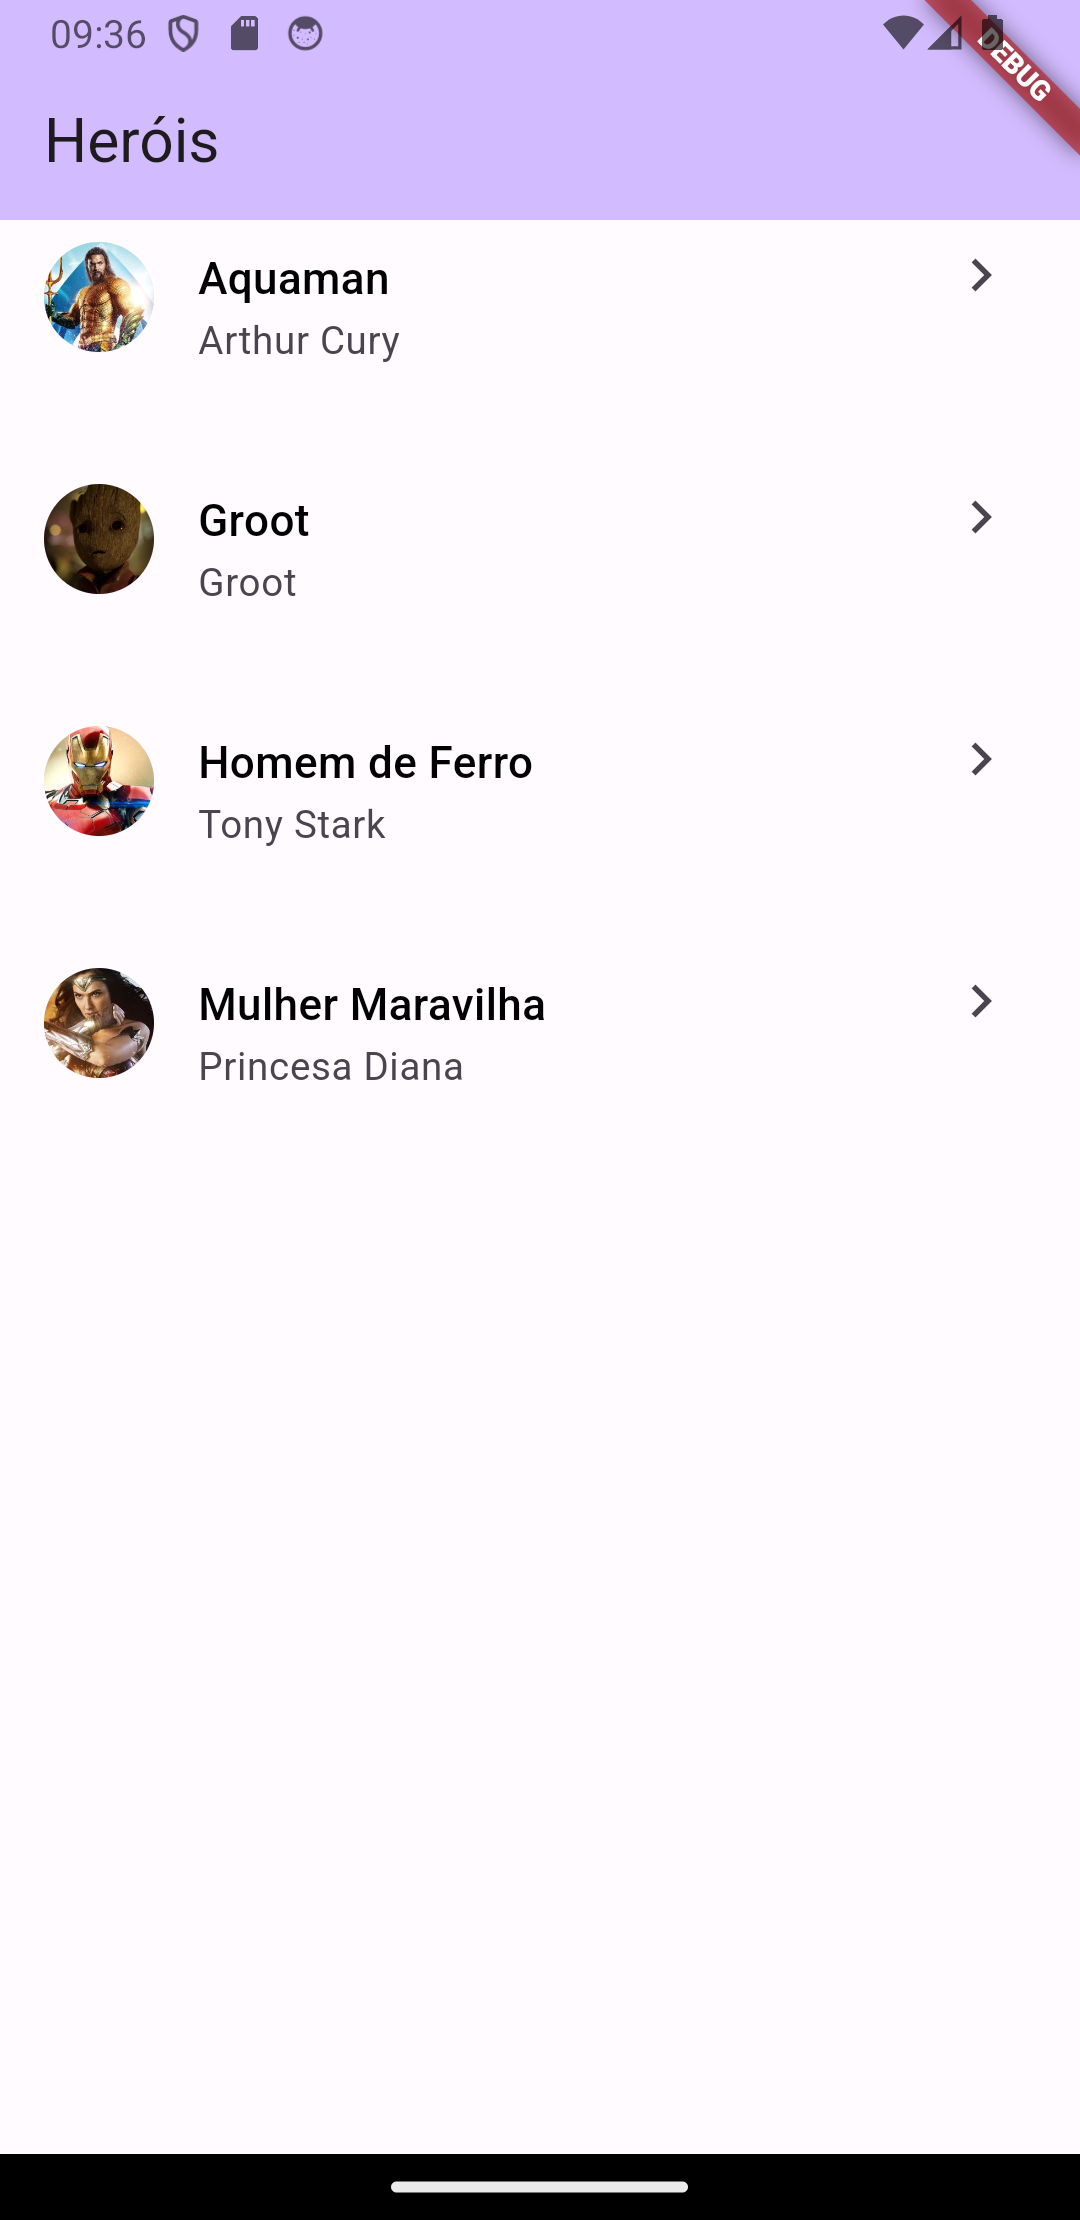
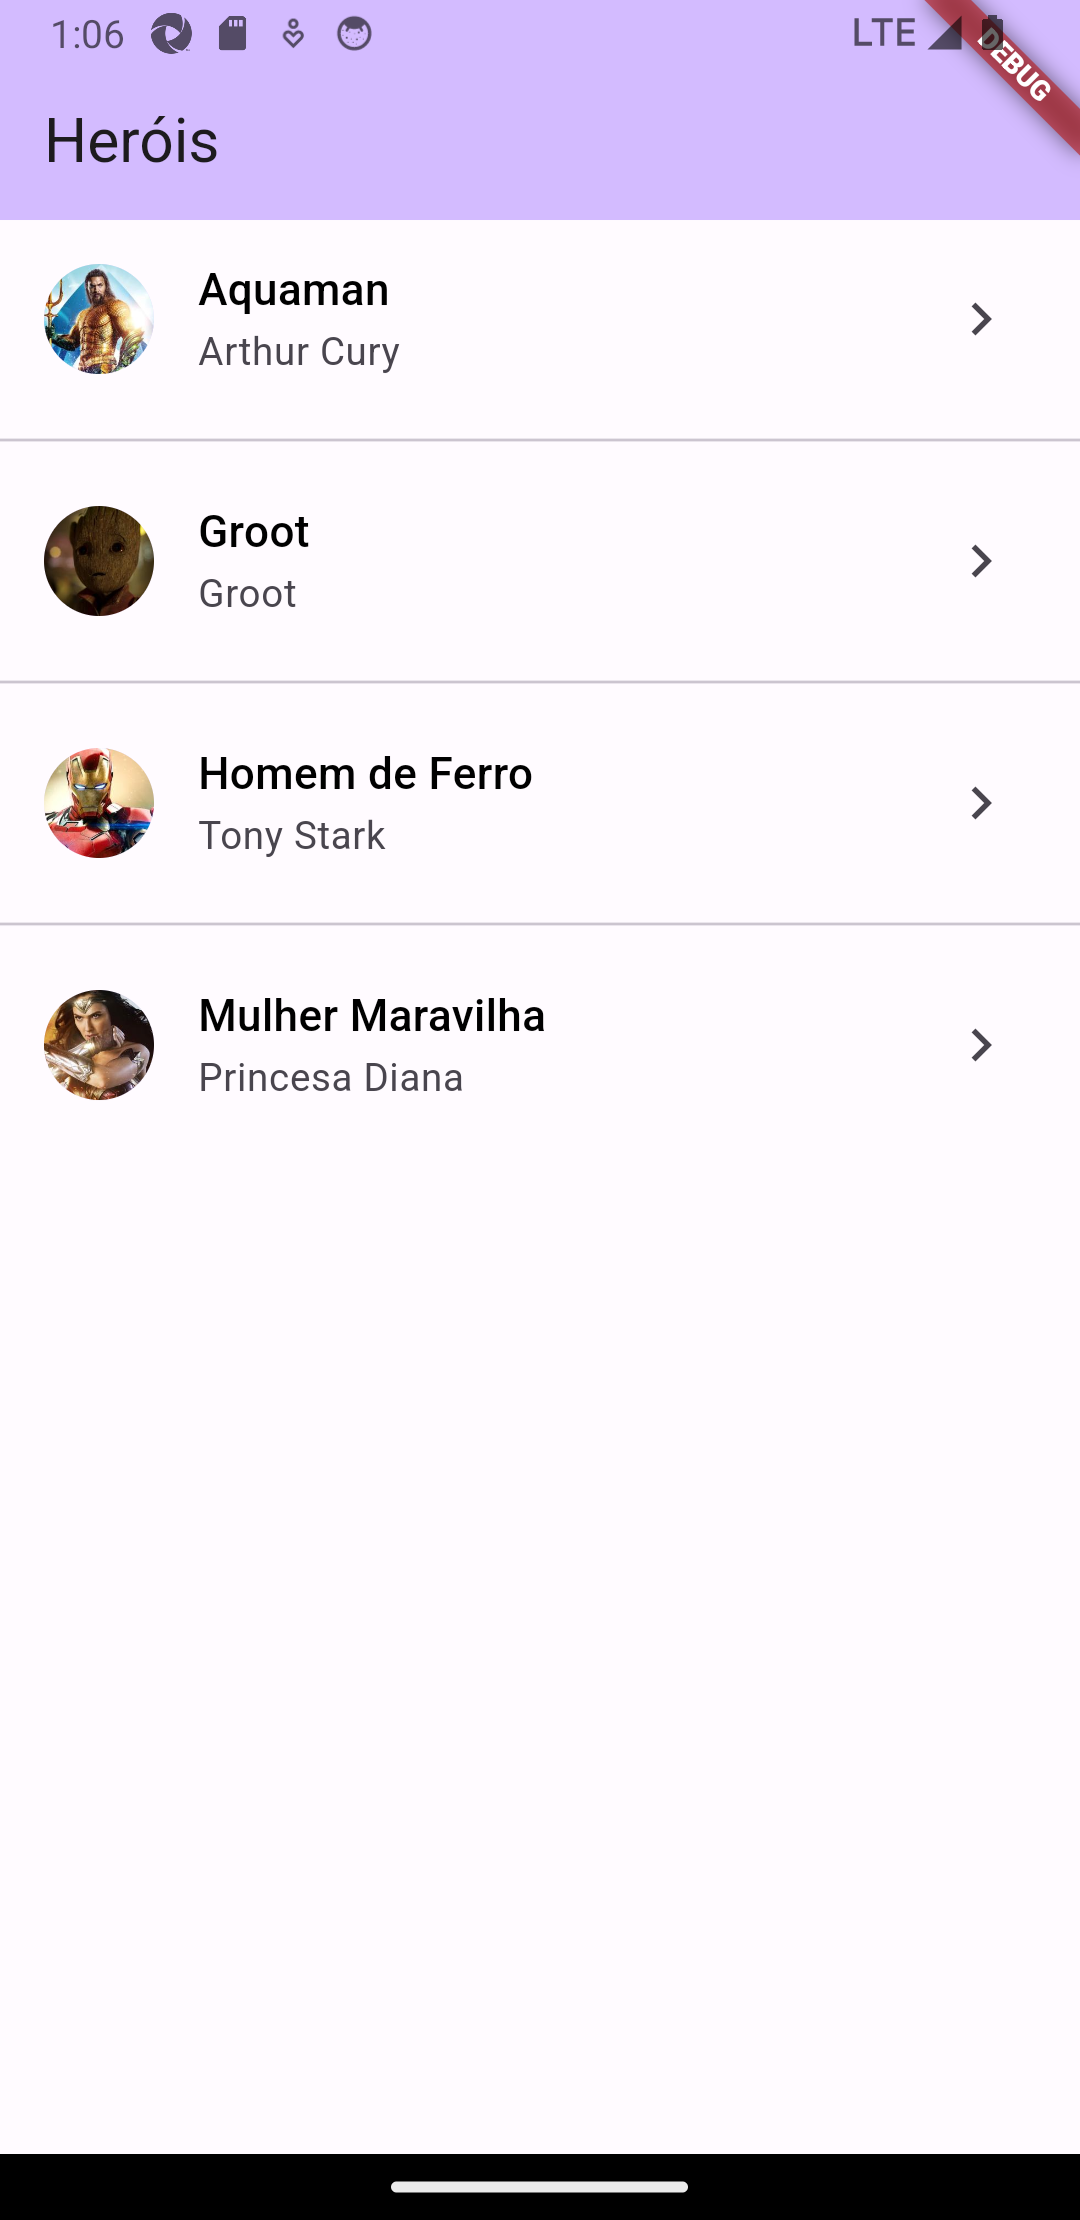
Ajuste de tela

diff --git a/lib/screen/hero_list.dart b/lib/screen/hero_list.dart
@@ -29,7 +29,9 @@ class _HeroListState extends State<HeroList> {
       builder: (context, snapshot) {
         if (snapshot.connectionState == ConnectionState.done) {
           var heroes = snapshot.data;
-          return ListView.builder(
+          return ListView.separated(
+            separatorBuilder: (BuildContext context, int index) =>
+                const Divider(),
             itemCount: heroes == null ? 0 : heroes.length,
             itemBuilder: (context, index) {
               var hero = heroes[index];
@@ -45,7 +47,6 @@ class _HeroListState extends State<HeroList> {
                 ),
                 subtitle: Text(hero.civil),
                 trailing: const Icon(Icons.keyboard_arrow_right_sharp),
-                isThreeLine: true,
                 onTap: () {
                   Navigator.push(
                     context,

diff --git a/lib/screen/hero_detail.dart b/lib/screen/hero_detail.dart
@@ -32,7 +32,7 @@ class HeroDetail extends StatelessWidget {
                 ),
               )),
           Expanded(
-              flex: 1,
+              flex: 2,
               child: Column(
                 children: [
                   ListTile(
@@ -72,7 +72,7 @@ class ImageProfile extends StatelessWidget {
       ),
       padding: const EdgeInsets.all(2),
       child: CircleAvatar(
-        radius: 100.0,
+        radius: 80.0,
         backgroundImage: NetworkImage(imageUrl),
         backgroundColor: Colors.white,
       ),

diff --git a/README.md b/README.md
@@ -17,3 +17,7 @@ samples, guidance on mobile development, and a full API reference.
 
 ## Screenshots
 <img src="https://github.com/rlhorochovec/app_heroi_flutter/blob/develop/screenshots/hero_list.png" width="250" /> <img src="https://github.com/rlhorochovec/app_heroi_flutter/blob/develop/screenshots/hero_detail.png" width="250" />
+
+## Demonstração
+
+<img src="https://github.com/rlhorochovec/app_heroi_flutter/blob/develop/screenshots/demo.gif" width="250" />
